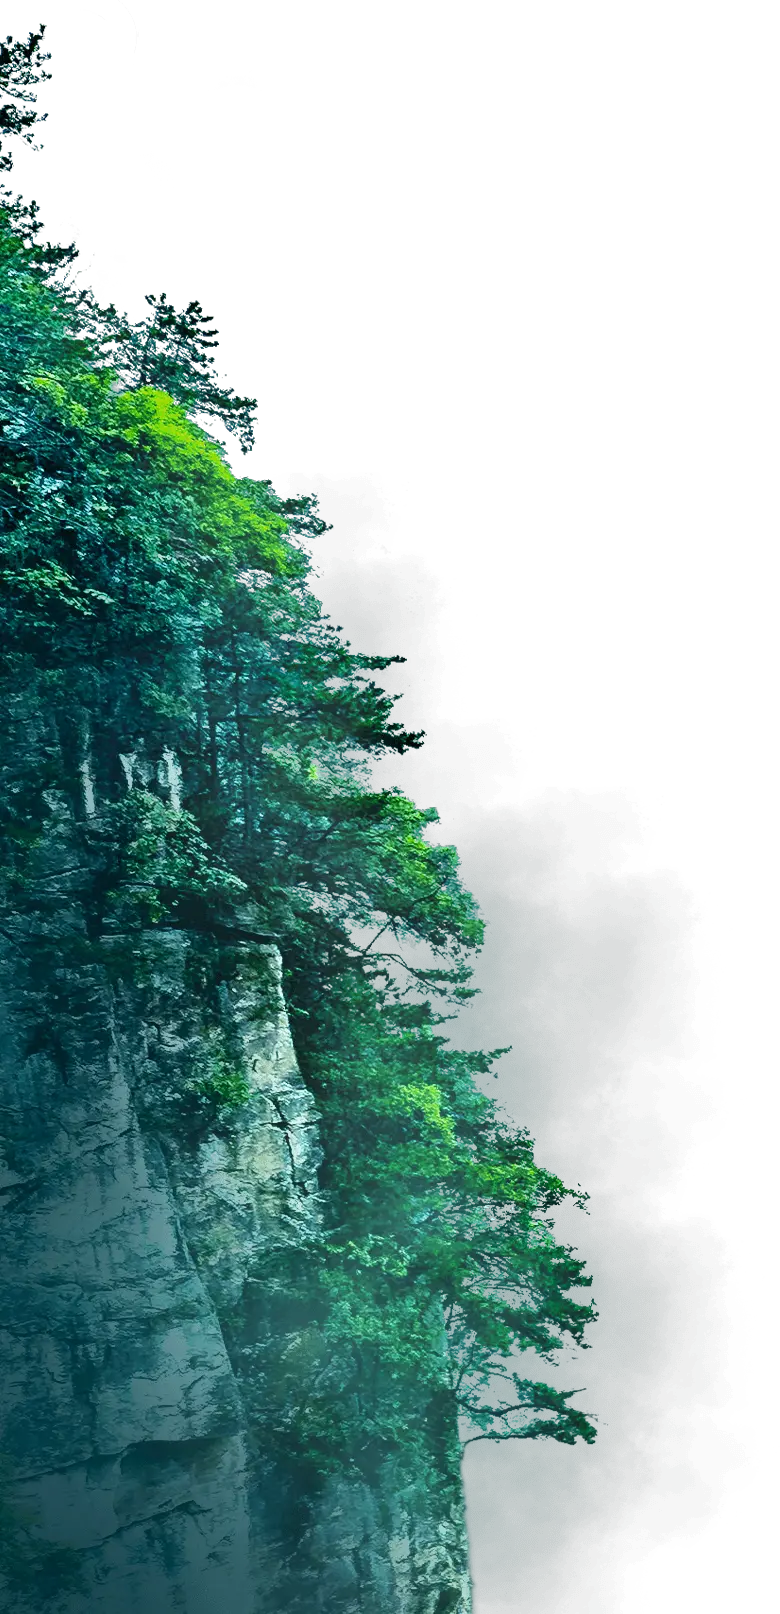
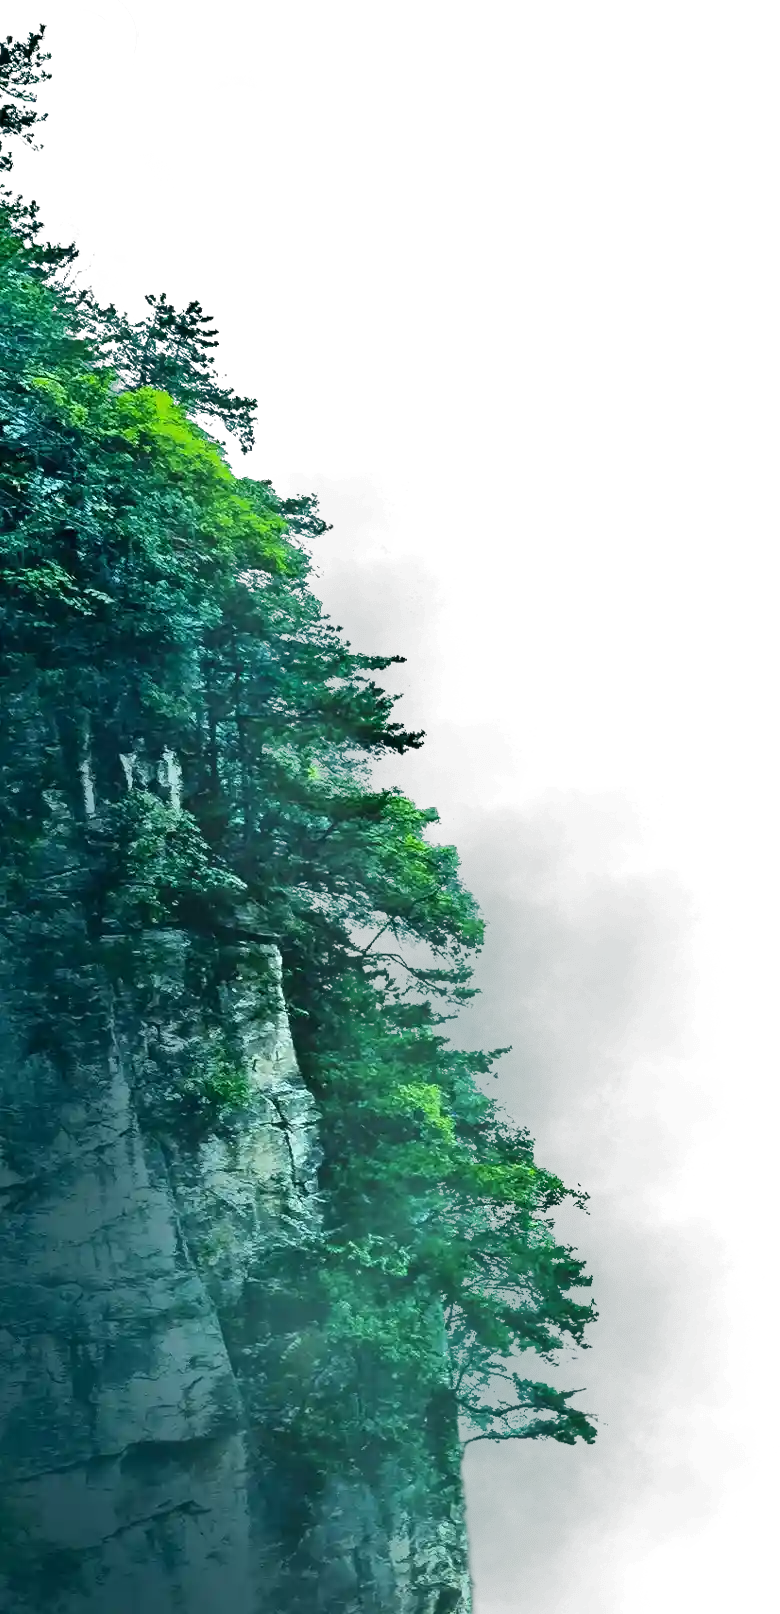
opti images

diff --git a/app.js b/app.js
@@ -1,8 +1,8 @@
 const parallax_el = document.querySelectorAll(".parallax");
 const main = document.querySelector("main");
 
-let xValue = 0, 
-yValue = 0;
+let xValue = 0,
+    yValue = 0;
 
 let rotateDegree = -0;
 parallax_el.forEach((el) => {
@@ -10,51 +10,47 @@ parallax_el.forEach((el) => {
     el.style.willChange = "transform";
 });
 
-function update(cursorPosition)
-{
+function update(cursorPosition) {
 
 }
 update(0);
 // Debounce function before your event listener
 function debounce(func, delay) {
     let inDebounce;
-    return function() {
+    return function () {
         const context = this;
         const args = arguments;
         cancelAnimationFrame(inDebounce);
         inDebounce = requestAnimationFrame(() => func.apply(context, args));
     };
 }
-  
-  window.addEventListener("mousemove", debounce((e) => {
+
+window.addEventListener("mousemove", debounce((e) => {
     // Your existing mousemove code here
-    if(timeline.isActive()) return;
-    xValue=e.clientX - window.innerWidth / 2;
-    yValue=e.clientY - window.innerHeight / 2;
-    rotateDegree= (xValue / (window,innerWidth / 2)) * 20;
+    if (timeline.isActive()) return;
+    xValue = e.clientX - window.innerWidth / 2;
+    yValue = e.clientY - window.innerHeight / 2;
+    rotateDegree = (xValue / (window, innerWidth / 2)) * 20;
     parallax_el.forEach((el) => {
         let speedx = el.dataset.speedx;
         let speedy = el.dataset.speedy;
         let speedz = el.dataset.speedz;
-        let rotateSpeed= el.dataset.rotation;
+        let rotateSpeed = el.dataset.rotation;
         let isInLeft = parseFloat(getComputedStyle(el).left) < window.innerWidth / 2 ? 1 : -1;
-        let zValue= (e.clientX - parseFloat(getComputedStyle(el).left)) * isInLeft*0.1;
-        
-        el.style.transform = `perspective(2300px) translateZ(${
-            zValue * speedz}px) rotateY(${rotateDegree * rotateSpeed}deg) translateX(calc(-50% + ${
-            -xValue *speedx}px))  translateY(calc(-50% + ${
-                yValue * speedy}px))`;
+        let zValue = (e.clientX - parseFloat(getComputedStyle(el).left)) * isInLeft * 0.1;
+
+        el.style.transform = `perspective(2300px) translateZ(${zValue * speedz}px) rotateY(${rotateDegree * rotateSpeed}deg) translateX(calc(-50% + ${-xValue * speedx}px))  translateY(calc(-50% + ${yValue * speedy}px))`;
         update(e.clientX);
     });
-  }, 60)); // 60 FPS, adjust as needed
+}, 60)); // 60 FPS, adjust as needed
 
 
-if(window.innerWidth >= 725){
-    main.style.maxHeight= `${window.innerWidth * 0.6}px`;
+if (window.innerWidth >= 725) {
+    main.style.maxHeight = `${window.innerWidth * 0.6}px`;
 }
-else{
-    main.style.maxHeight= `${window.innerWidth * 1.6}px`;
-    }
+else {
+    main.style.maxHeight = `${window.innerWidth * 1.6}px`;
+}
 //GSAP library Animation
 
 let timeline = gsap.timeline();
@@ -71,17 +67,17 @@ let timeline = gsap.timeline();
 })*/
 
 timeline.from(".text h1",
-{
-    y:window.innerHeight - document.querySelector(".text h1").getBoundingClientRect().top + 200,
-    duration: 2.5,
-},"6.5"
-).from(".text h2",{
+    {
+        y: window.innerHeight - document.querySelector(".text h1").getBoundingClientRect().top + 200,
+        duration: 2.5,
+    }, "6.5"
+).from(".text h2", {
     y: -150,
     opacity: 0,
-    duration: 1.5,  
-},"6.5"
+    duration: 1.5,
+}, "6.5"
 )
-.from(".hide",{
-    opacity: 0,
-    duration: 1.5
-},"6.5");
+    .from(".hide", {
+        opacity: 0,
+        duration: 1.5
+    }, "6.5");

diff --git a/index.html b/index.html
@@ -63,7 +63,7 @@
       />
 
       <img
-        src="images/mountain_8.webp"
+        src="images/mountain_8.png"
         data-rotation="0.02"
         data-speedx="0.1"
         data-speedy="0.11"
@@ -74,7 +74,7 @@
       />
 
       <img
-        src="images/mountain_8.webp"
+        src="images/mountain_8.png"
         data-rotation="0.09"
         data-speedx="0.1"
         data-speedy="0.1"
@@ -199,7 +199,7 @@
       function preloadImages() {
         const images = [
           "images/background(1).webp",
-          "images/mountain_8.webp",
+          "images/mountain_8.png",
           "images/mountain_6.webp",
           "images/mountain_5.webp",
           "images/mountain_4.webp",
